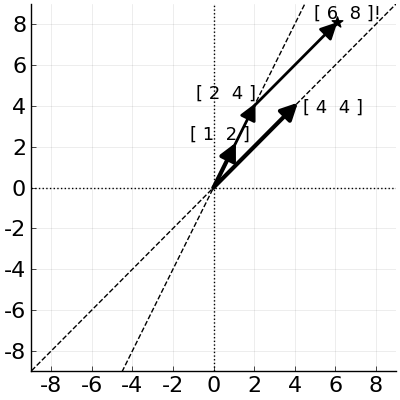
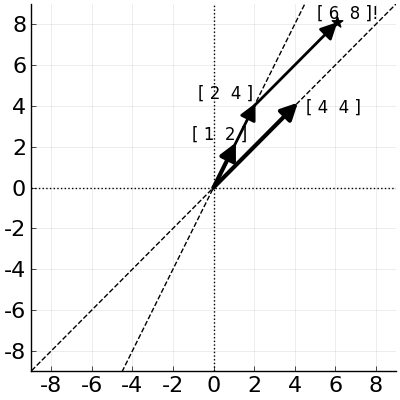
Finish yellow domino vectors.

diff --git a/linearIndep.tex b/linearIndep.tex
@@ -191,17 +191,18 @@ interesting questions:
 \begin{enumerate}
 \itemsep.1em
 
-\item Were your solutions that same as mine in each case? If so, do you think
-that was just coincidence? If not, how many different solutions do you think
-are possible?
+\item \label{uniqueSolution} Were your solutions that same as mine in each
+case? If so, do you think that was just coincidence? If not, how many different
+solutions do you think are possible?
 
-\item Is it always possible to solve a puzzle like this, no matter what the
-\textit{goal} domino is? Or are only a small number of goal dominoes actually
-possible to produce?
+\item \label{alwaysSolveNoMatterGoal} Is it always possible to solve a puzzle
+like this, no matter what the \textit{goal} domino is? Or are only a small
+number of goal dominoes actually possible to produce?
 
-\item Is it always possible to solve a puzzle like this, no matter what the
-\textit{starter} dominoes are? Or is it only in a few cleverly crafted
-scenarios where the numbers happen to work out just right?
+\item \label{alwaysSolveNoMatterStarters} Is it always possible to solve a
+puzzle like this, no matter what the \textit{starter} dominoes are? Or is it
+only in a few cleverly crafted scenarios where the numbers happen to work out
+just right?
 
 \end{enumerate}
 
@@ -312,10 +313,11 @@ Figure~\ref{fig:yellowVectors6_8}.
 \includegraphics[width=0.44\textwidth]{yellowVectors6_8.png}
 \includegraphics[width=0.44\textwidth]{yellowVectors6_8sol.png}
 \caption{Can we reach the point
-\protect\includegraphics[width=0.06\textwidth]{white6_8.png} using only
-multiples of the vectors 
+\protect\includegraphics[width=0.06\textwidth]{white6_8.png} (the {\Large
+$\star$} at
+point $[\ 6\ 8\ ]$) using only multiples of the vectors
 \protect\includegraphics[width=0.06\textwidth]{gray1_2.png} and
-\protect\includegraphics[width=0.06\textwidth]{gray4_4.png}? Yes!}
+\protect\includegraphics[width=0.06\textwidth]{gray4_4.png}? \textit{Yes!}}
 \label{fig:yellowVectors6_8}
 \end{figure}
 
@@ -329,6 +331,84 @@ Starting at the origin, and moving two times in the direction of the $[\ 1\ \
 2\ ]$ vector, we get to the point $[\ 2\ \ 4\ ]$. From there, moving once in
 the direction of the $[\ 4\ \ 4\ ]$ vector lands us exactly on the point $[\ 6\
 \ 8\ ]$. Voil\`{a}!
+
+\medskip
+
+That was fun -- let's try some more. What about the point $[\ 3\ \ 2\ ]$. Can
+we reach \textit{it} by using only multiples of $[\ 1\ \ 2\ ]$ and $[\ 4\ \ 4\
+]$?
+
+\index{windshield wiper}
+At first glance, it doesn't seem so; after all, the point $(3,2)$ is outside
+the ``windshield wiper'' angle between the two dashed lines. But it turns out
+we can, if we go against the grain. Moving ``$-1$ times in the $[\ 1\ \ 2\ ]$
+direction'' takes us to the point $[\ -1\ \ -2\ ]$. From there, we do
+\textit{almost} a complete 180\textdegree. Heading back northeast once in the
+$[\ 4\ \ 4\ ]$ direction lands us on $[\ 3\ \ 2\ ]$ as desired. Bingo! (See
+Figure~\ref{fig:yellowVectors3_2}.)
+
+\begin{figure}[ht]
+\centering
+\includegraphics[width=0.44\textwidth]{yellowVectors3_2.png}
+\includegraphics[width=0.44\textwidth]{yellowVectors3_2sol.png}
+\caption{Can we reach the point $[\ 3\ \ 2\ ]$ using only $[\ 1\ \ 2\ ]$ and
+$[\ 4\ \ 4\ ]$? \textit{Yes!}}
+\label{fig:yellowVectors3_2}
+\end{figure}
+
+\index{backwards}
+And how about $[\ 0\ \ 4\ ]$? This time it's the 
+\includegraphics[width=0.06\textwidth]{gray4_4.png} domino that we use
+``backwards.'' Going four times in the $[\ 1\ \ 2\ ]$ direction followed by
+$-1$ in the $[\ 4\ \ 4\ ]$ direction gives us the solution ``4 \& $-1$,'' as
+depicted in Figure~\ref{fig:yellowVectors0_4}.
+
+\begin{figure}[hb]
+\centering
+\includegraphics[width=0.44\textwidth]{yellowVectors0_4.png}
+\includegraphics[width=0.44\textwidth]{yellowVectors0_4sol.png}
+\caption{Can we reach the point $[\ 0\ \ 4\ ]$ using only $[\ 1\ \ 2\ ]$ and
+$[\ 4\ \ 4\ ]$? \textit{Yes!}}
+\label{fig:yellowVectors0_4}
+\end{figure}
+
+At this point, you'll probably guess what I'm going to say next. Yes indeed,
+\textit{any} point in the entire $x,y$ plane can be reached through some
+combination of the $[\ 1\ \ 2\ ]$ and $[\ 4\ \ 4\ ]$ vectors. And that gives us
+the answer to one of our questions from p.~\pageref{alwaysSolveNoMatterGoal}
+(question \#\ref{alwaysSolveNoMatterGoal}): surprisingly, \textit{yes} we can
+always find a solution to the Domino Game puzzle, no matter what the goal
+domino is. Amazing!
+
+Most of my students are as surprised by that result as I was back in the day.
+When I first give them Domino puzzles, they figure, ``okay, Stephen has
+specially concocted a case where it just happens to work out that I can combine
+the two yellow dominoes into a white one somehow. I'll work his special puzzle
+and come up with the slick answer.'' Little do they realize that \textit{any}
+white domino whatsoever is solvable; I didn't have to come up with anything
+special at all.
+
+\smallskip
+
+Now the second lesson of these vector pictures may be harder to see. It's the
+answer to question \#\ref{uniqueSolution} from p.~\pageref{uniqueSolution}. Not
+only can every Domino problem be solved, but \textit{it can be solved in only
+one way.}
+
+If you did it right, your answers to the six puzzles on
+pp.~\pageref{startDominoPuzzles}-\pageref{endDominoPuzzes} were exactly the
+same as mine on p.~\pageref{dominoPuzzleAnswers}. Perhaps that struck you as a
+coincidence at first: ``gee, it's sure funny that I always keep hitting on the
+exact same solution that Stephen did!'' But if you stare at
+Figure~\ref{fig:yellowVectors6_8} and friends, you might see the reason.
+Starting from the origin, and striking out in the first vector's direction, you
+only have one choice if you want to get to the right place. In
+Figure~\ref{fig:yellowVectors6_8}'s case, you \textit{must} stop at $[\ 2\ \ 4\
+]$. If you stop earlier, or later, then you're destined to miss the mark: going
+in the $[\ 4\ \ 4\ ]$ direction from anywhere else you might stop won't land
+you at exactly $[\ 6\ \ 8\ ]$.
+
+
 
 
 
